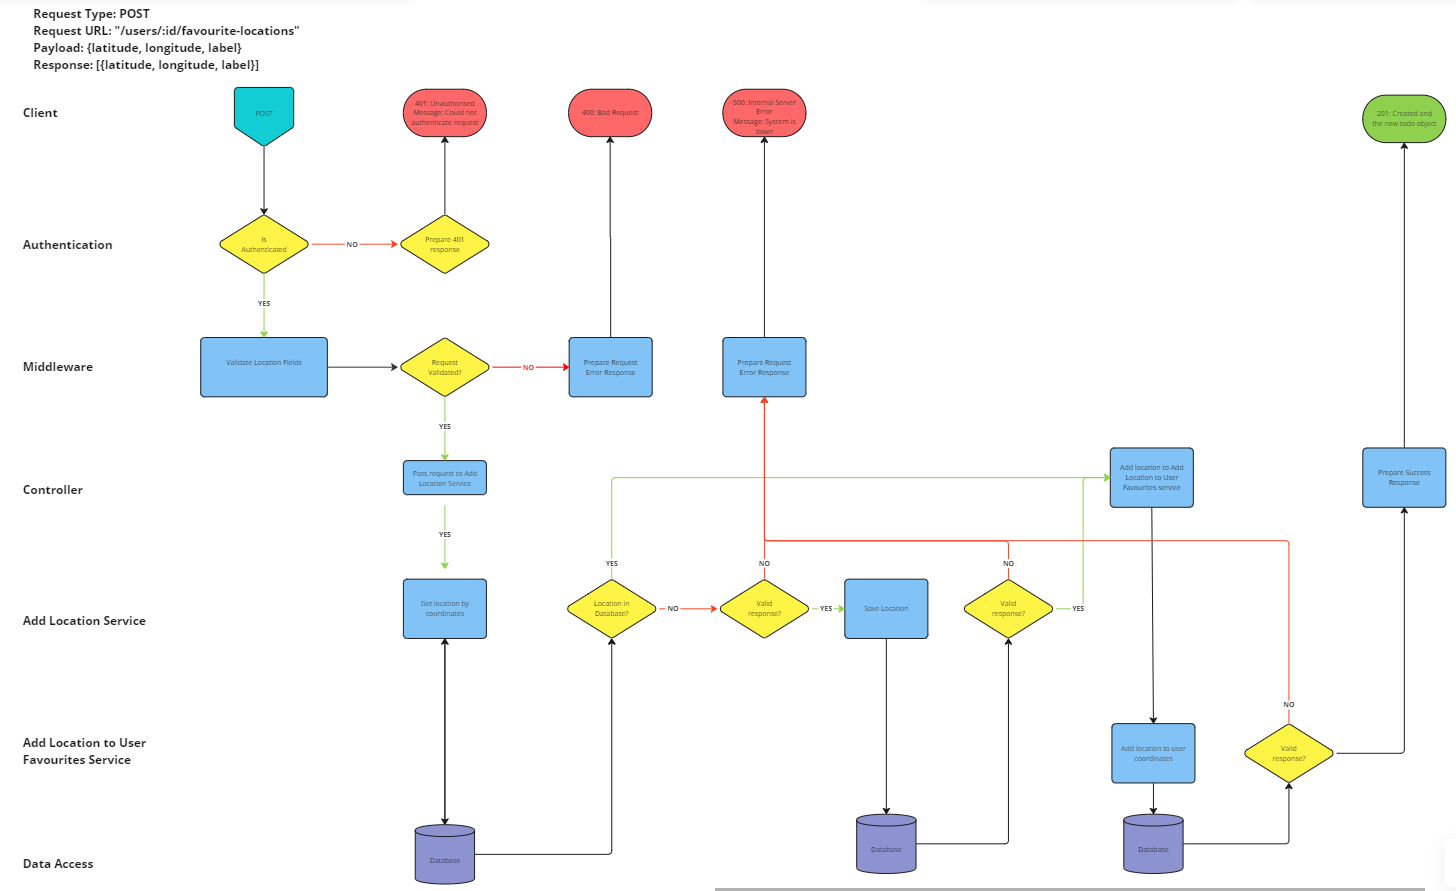
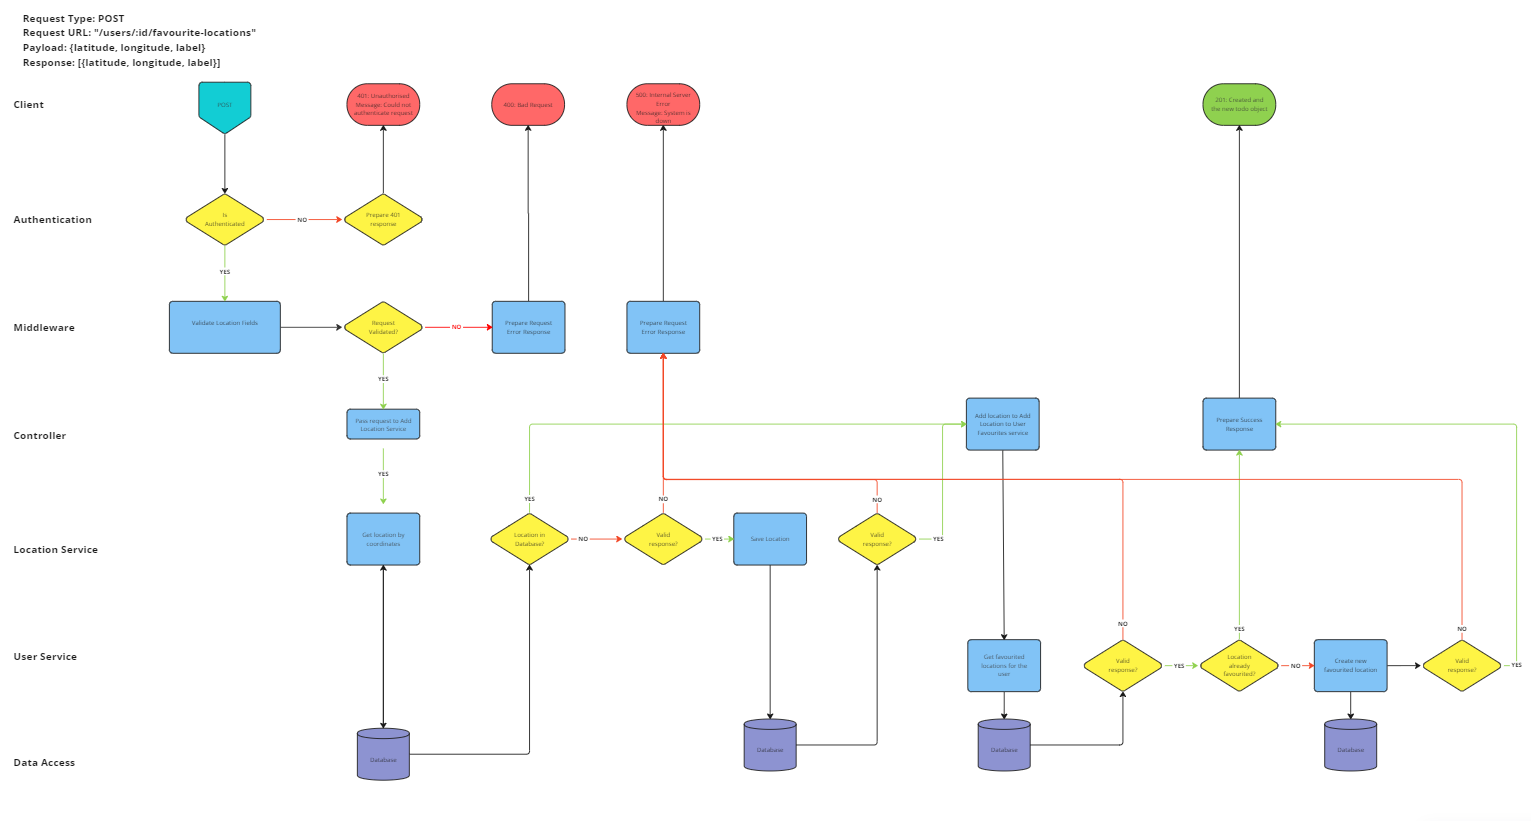
PASSED: FLS1-1
It should call find on the FavouritedLocation model with the userId as an argument

diff --git a/test/unit/user/User.service.test.js b/test/unit/user/User.service.test.js
@@ -7,69 +7,68 @@ import User from "../../../src/models/User.model.js";
 import userData from "../../data/user.test.data.js";
 import UserService from "../../../src/services/User.service.js";
 
-
 use(chaiAsPromised);
 
 describe("User service tests: ", () => {
-    let userService = null;
-    let findByIdAndUpdateStub = null;
+  let userService = null;
+  let findByIdAndUpdateStub = null;
 
-    //SET-UP USER SERVICE TESTS
-    beforeEach(() => {
-        userService = new UserService();
-        findByIdAndUpdateStub = sinon.stub(User, "findByIdAndUpdate");
+  //SET-UP USER SERVICE TESTS
+  beforeEach(() => {
+    userService = new UserService();
+    findByIdAndUpdateStub = sinon.stub(User, "findByIdAndUpdate");
+  });
+
+  //CLEAN-UP USER SERVICE TESTS
+  afterEach(() => {
+    userService = null;
+    findByIdAndUpdateStub.restore();
+  });
+
+  describe("addLocationToFavourites tests: ", () => {
+    //? US1-1
+    it("should call findByIdAndUpdate on the user model with the correct arguments", async () => {
+      //Arrange
+
+      const expectedUpdateArg = {
+        $push: { FavouriteLocations: locationData.documents[0]._id },
+      };
+      //Act
+      await userService.addLocationToFavourites(
+        userData.documents[0],
+        locationData.documents[0]
+      );
+      const [receivedUserIdArg, receivedUpdateArg, receivedOptionsArg] =
+        findByIdAndUpdateStub.getCall(0).args;
+      //Assert
+      expect(receivedUserIdArg).to.equal(userData.documents[0]._id);
+      expect(receivedUpdateArg).to.deep.equal(expectedUpdateArg);
+      expect(receivedOptionsArg).to.deep.equal({ new: true });
     });
 
-    //CLEAN-UP USER SERVICE TESTS
-    afterEach(() => {
-        userService = null;
-        findByIdAndUpdateStub.restore();
+    //? US1-2
+    it("should return the updated user document", async () => {
+      //Arrange
+      const expected = userData.documents[1];
+      findByIdAndUpdateStub.resolves(expected);
+      //Act
+      const result = await userService.addLocationToFavourites(
+        userData.documents[0],
+        locationData.documents[0]
+      );
+      //Assert
+      expect(result).to.equal(expected);
     });
 
-    describe("addLocationToFavourites tests: ", () => {
-        //? US1-1
-        it("should call findByIdAndUpdate on the user model with the correct arguments", async () => {
-            //Arrange
-
-            const expectedUpdateArg = {
-                $push: { FavouriteLocations: locationData.documents[0]._id },
-            };
-            //Act
-            await userService.addLocationToFavourites(
-                userData.documents[0],
-                locationData.documents[0],
-            );
-            const [receivedUserIdArg, receivedUpdateArg, receivedOptionsArg] =
-                findByIdAndUpdateStub.getCall(0).args;
-            //Assert
-            expect(receivedUserIdArg).to.equal(userData.documents[0]._id);
-            expect(receivedUpdateArg).to.deep.equal(expectedUpdateArg);
-            expect(receivedOptionsArg).to.deep.equal({ new: true });
-        });
-
-        //? US1-2
-        it("should return the updated user document", async () => {
-            //Arrange
-            const expected = userData.documents[1];
-            findByIdAndUpdateStub.resolves(expected);
-            //Act
-            const result = await userService.addLocationToFavourites(
-                userData.documents[0],
-                locationData.documents[0],
-            );
-            //Assert
-            expect(result).to.equal(expected);
-        });
-
-        //? US1-3
-        it("should throw an error where findByIdAndUpdate fails", async () => {
-            findByIdAndUpdateStub.rejects();
-            await expect(
-                userService.addLocationToFavourites(
-                    userData.documents[0],
-                    locationData.documents[0],
-                ),
-            ).to.be.rejectedWith(Error);
-        });
+    //? US1-3
+    it("should throw an error where findByIdAndUpdate fails", async () => {
+      findByIdAndUpdateStub.rejects();
+      await expect(
+        userService.addLocationToFavourites(
+          userData.documents[0],
+          locationData.documents[0]
+        )
+      ).to.be.rejectedWith(Error);
     });
+  });
 });

diff --git a/test/unit/favourited-location/FavouritedLocation.service.test.js b/test/unit/favourited-location/FavouritedLocation.service.test.js
@@ -1,0 +1,45 @@
+import { expect, use } from "chai";
+import chaiAsPromised from "chai-as-promised";
+import sinon from "sinon";
+
+import FavouritedLocation from "../../../src/models/FavouritedLocation.model.js";
+import FavouritedLocationService from "../../../src/services/FavouritedLocation.service.js";
+import locationData from "../../data/location.test.data.js";
+import userData from "../../data/user.test.data.js";
+
+use(chaiAsPromised);
+
+describe("Favourited location service tests: ", () => {
+  let favouritedLocationService = null;
+  let findStub = null;
+  let createStub = null;
+
+  //SET-UP USER SERVICE TESTS
+  beforeEach(() => {
+    favouritedLocationService = new FavouritedLocationService();
+    findStub = sinon.stub(FavouritedLocation, "find");
+    createStub = sinon.stub(FavouritedLocation, "create");
+  });
+
+  //CLEAN-UP USER SERVICE TESTS
+  afterEach(() => {
+    favouritedLocationService = null;
+    findStub.restore();
+    createStub.restore();
+  });
+
+  describe("addLocationToFavourites tests: ", () => {
+    //? FLS1-1
+    it("should call find on the FavouritedLocation model with the userId as an argument", async () => {
+      //Arrange
+      const testUser = userData.documents[0];
+      const testLocation = locationData.documents[0];
+      const expected = { user: testUser._id };
+      //Act
+      await favouritedLocationService.addFavourite(testUser, testLocation);
+      const [result] = findStub.getCall(0).args;
+      //Assert
+      expect(result).to.deep.equal(expected);
+    });
+  });
+});

diff --git a/src/models/User.model.js b/src/models/User.model.js
@@ -1,7 +1,7 @@
-import mongoose from "mongoose";
+import { Schema, model } from "mongoose";
 import validator from "validator";
 
-const userSchema = new mongoose.Schema({
+const userSchema = new Schema({
   emailAddress: {
     type: String,
     required: [true, "Field required: email"],
@@ -12,12 +12,7 @@ const userSchema = new mongoose.Schema({
     required: [true, "Field required: password"],
     minLength: 8,
   },
-  FavouriteLocations: {
-    type: [mongoose.Schema.Types.ObjectId],
-    ref: "Location",
-    default: [],
-  },
 });
 
-const User = mongoose.model("User", userSchema);
+const User = model("User", userSchema);
 export default User;

diff --git a/src/models/FavouritedLocation.model.js b/src/models/FavouritedLocation.model.js
@@ -1,0 +1,20 @@
+import mongoose from "mongoose";
+
+const favouritedLocationSchema = new mongoose.Schema({
+  user: {
+    type: [mongoose.Schema.Types.ObjectId],
+    ref: "User",
+    required: true,
+  },
+  location: {
+    type: [mongoose.Schema.Types.ObjectId],
+    ref: "Location",
+    required: true,
+  },
+});
+
+const FavouritedLocation = mongoose.model(
+  "FavouritedLocation",
+  favouritedLocationSchema
+);
+export default FavouritedLocation;

diff --git a/test/integration/userRoutes.integration.test.js b/test/integration/userRoutes.integration.test.js
@@ -71,6 +71,7 @@ describe("User routes: integration tests", () => {
       //Assert
       expect(response.status).to.equal(201);
     });
+    /*
 
     //? INT1-2
     it("should add location to favourite locations", async () => {
@@ -87,6 +88,6 @@ describe("User routes: integration tests", () => {
       expect(response.body.FavouriteLocations).to.deep.equal([
         locationData.documents[0]._id.toString(),
       ]);
-    });
+    }); */
   });
 });

diff --git a/test/data/user.test.data.js b/test/data/user.test.data.js
@@ -6,13 +6,11 @@ const userData = {
       _id: new mongoose.Types.ObjectId(),
       emailAddress: "user0@test.com",
       password: "00000000",
-      FavouriteLocations: [],
     },
     {
       _id: new mongoose.Types.ObjectId(),
       emailAddress: "user1@test.com",
       password: "00000001",
-      FavouriteLocations: [],
     },
   ],
 };

diff --git a/src/services/FavouritedLocation.service.js b/src/services/FavouritedLocation.service.js
@@ -1,0 +1,7 @@
+import FavouritedLocation from "../models/FavouritedLocation.model.js";
+
+export default class FavouritedLocationService {
+  addFavourite = async (user, location) => {
+    await FavouritedLocation.find({ user: user._id });
+  };
+}

diff --git a/docs/routing-diagrams-and-tests/user-story-1-routing-diagram-and-tests.md b/docs/routing-diagrams-and-tests/user-story-1-routing-diagram-and-tests.md
@@ -21,11 +21,14 @@
 - [x] LS1-5: It should return a new location document with the correct properties where a location with the supplied coordinates was not already in the collection
 - [x] LS1-6: It should throw an error if create throws an error
 
-### User Service (US)
+### Favourited Location Service (FLS)
 
-- [x] US1-1: It should call findByIdAndUpdate on the user model with the correct arguments
-- [x] US1-2: It should return the updated user document
-- [x] US1-3: It should throw an error where findByIdAndUpdate fails
+- [ ] FLS1-1: It should call find on the FavouritedLocation model with the userId as an argument
+- [ ] FLS1-2: It should return an array of favourited locations for the user where location already in the user's favourites
+- [ ] FLS1-3: It should call create on the FavouritedLocation model with the correct arguments if the location has not in the user's favourited locations.
+- [ ] FLS1-4: It should return an array of favourited locations for the user where location not already in the user's favourites
+- [ ] FLS1-5: It should throw an error where find fails
+- [ ] FLS1-6: It should throw an error where create fails
 
 ### User Controller (UC)
 
